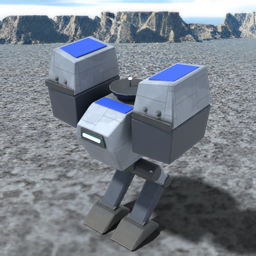
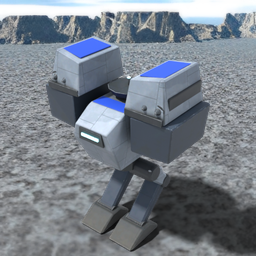
Walkers: previews apply the seat moves their scripts make in Create
The rest-pose audit flags Constructor's roof (2.3), Warrior's EMG (0.8), Crasher's turret (1.2) and Spectre's torso (1.15), but each script's Create seats the part, and the engine poses show no gap. The pictures left those moves out, as they did Jethro's pods, so they showed gaps the game does not have.

diff --git a/tools/s3okit/kit/units/CORE_T2_BOT_Spectre.py b/tools/s3okit/kit/units/CORE_T2_BOT_Spectre.py
@@ -11,7 +11,7 @@ UNIT = dict(
     skeleton_opts=dict(hipx=5.0),
     res=1024,
     wreck=dict(seed=30, drop=['ltong'], remove=[]),
-    preview_pose={'ltong': (180, 0, 0), 'rtong': (180, 0, 0), 'tongspivot': (0, 0, 25)},     # jammer active
+    preview_pose={'ltong': (180, 0, 0), 'rtong': (180, 0, 0), 'tongspivot': (0, 0, 25), 'torso': {'move': (0, -1.25, 0)}},     # jammer active
 )
 
 

diff --git a/tools/s3okit/kit/units/ARM_T1_BOT_Jethro.py b/tools/s3okit/kit/units/ARM_T1_BOT_Jethro.py
@@ -12,7 +12,7 @@ UNIT = dict(
     skeleton_opts=dict(hipx=3.3),      # TA's 2.52 makes the two legs touch
     res=1024,
     wreck=dict(seed=6, drop=['ruparm'], remove=[]),
-    preview_pose={},
+    preview_pose={'ruparm': {'move': (1.2, 0, 0)}, 'luparm': {'move': (-1.2, 0, 0)}},    # script Create seats the pods
 )
 
 

diff --git a/tools/s3okit/kit/units/ARM_T1_BOT_Constructor.py b/tools/s3okit/kit/units/ARM_T1_BOT_Constructor.py
@@ -14,7 +14,7 @@ UNIT = dict(
     skeleton_opts=dict(height=9.0, hipx=6.0),
     res=1024,
     wreck=dict(seed=10, drop=['rflap'], remove=[]),
-    preview_pose={},
+    preview_pose={'lflap': {'move': (0, -2.6, 0)}, 'rflap': {'move': (0, -2.6, 0)}},    # script Create seats the roof
 )
 
 

diff --git a/tools/s3okit/kit/units/ARM_T1_BOT_Warrior.py b/tools/s3okit/kit/units/ARM_T1_BOT_Warrior.py
@@ -14,7 +14,7 @@ UNIT = dict(
     skeleton_opts=dict(height=13.2, hipx=4.5),
     res=1024,
     wreck=dict(seed=8, drop=['luparm'], remove=[]),
-    preview_pose={},
+    preview_pose={'lemg': {'move': (0, 0, -0.6)}},    # script Create seats the gun
 )
 
 

diff --git a/tools/s3okit/kit/units/CORE_T1_BOT_Crasher.py b/tools/s3okit/kit/units/CORE_T1_BOT_Crasher.py
@@ -13,7 +13,7 @@ UNIT = dict(
     skeleton_opts=dict(hipx=5.4),
     res=1024,
     wreck=dict(seed=14, drop=['gunbase'], remove=[]),
-    preview_pose={},
+    preview_pose={'turret': {'move': (0, -1.3, 0)}},    # script Create seats the turret
 )
 
 
